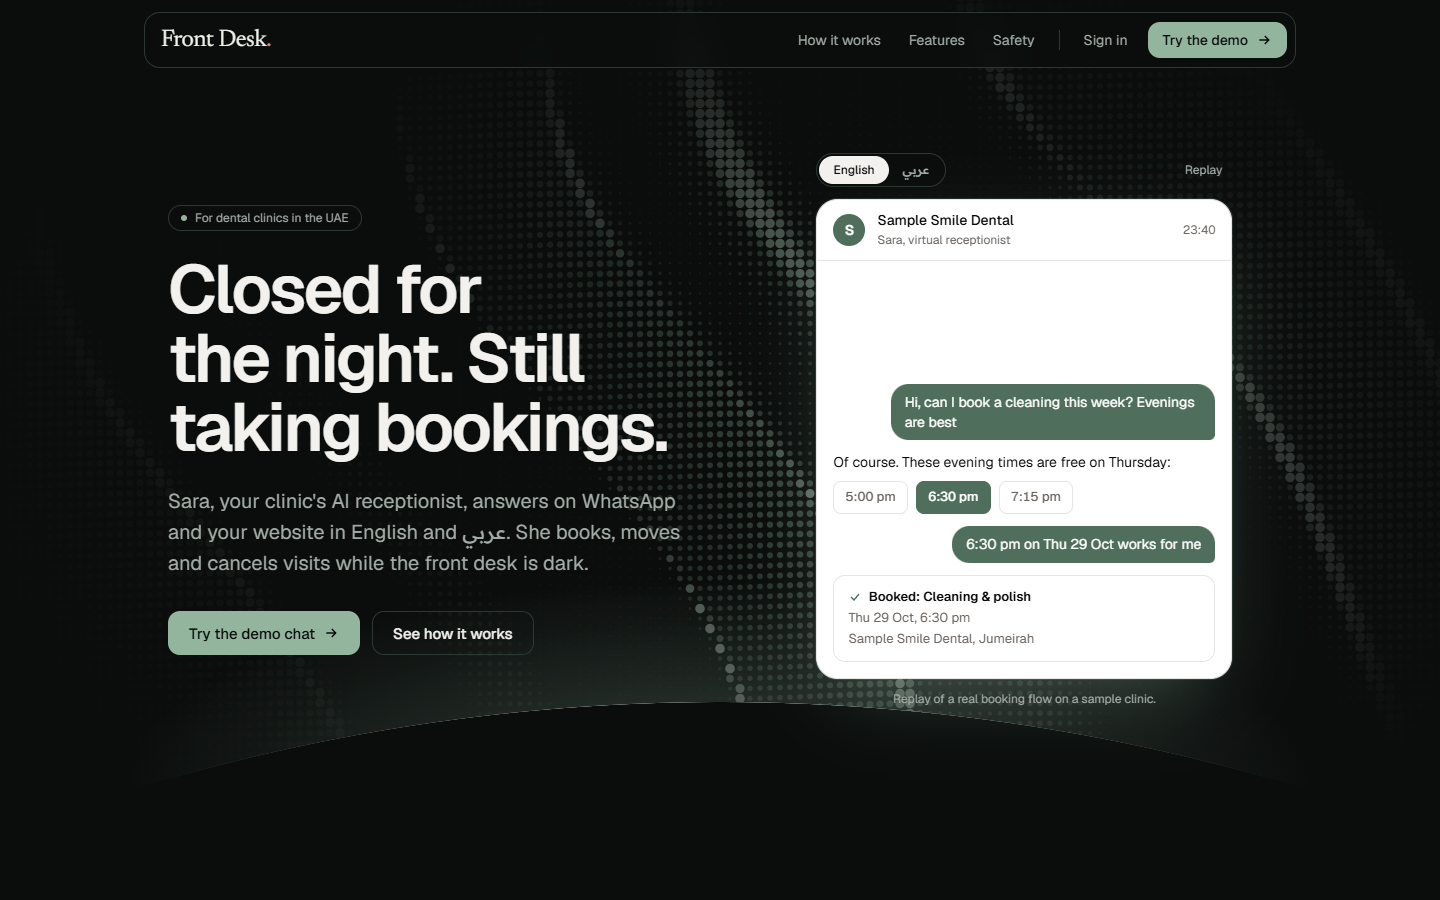
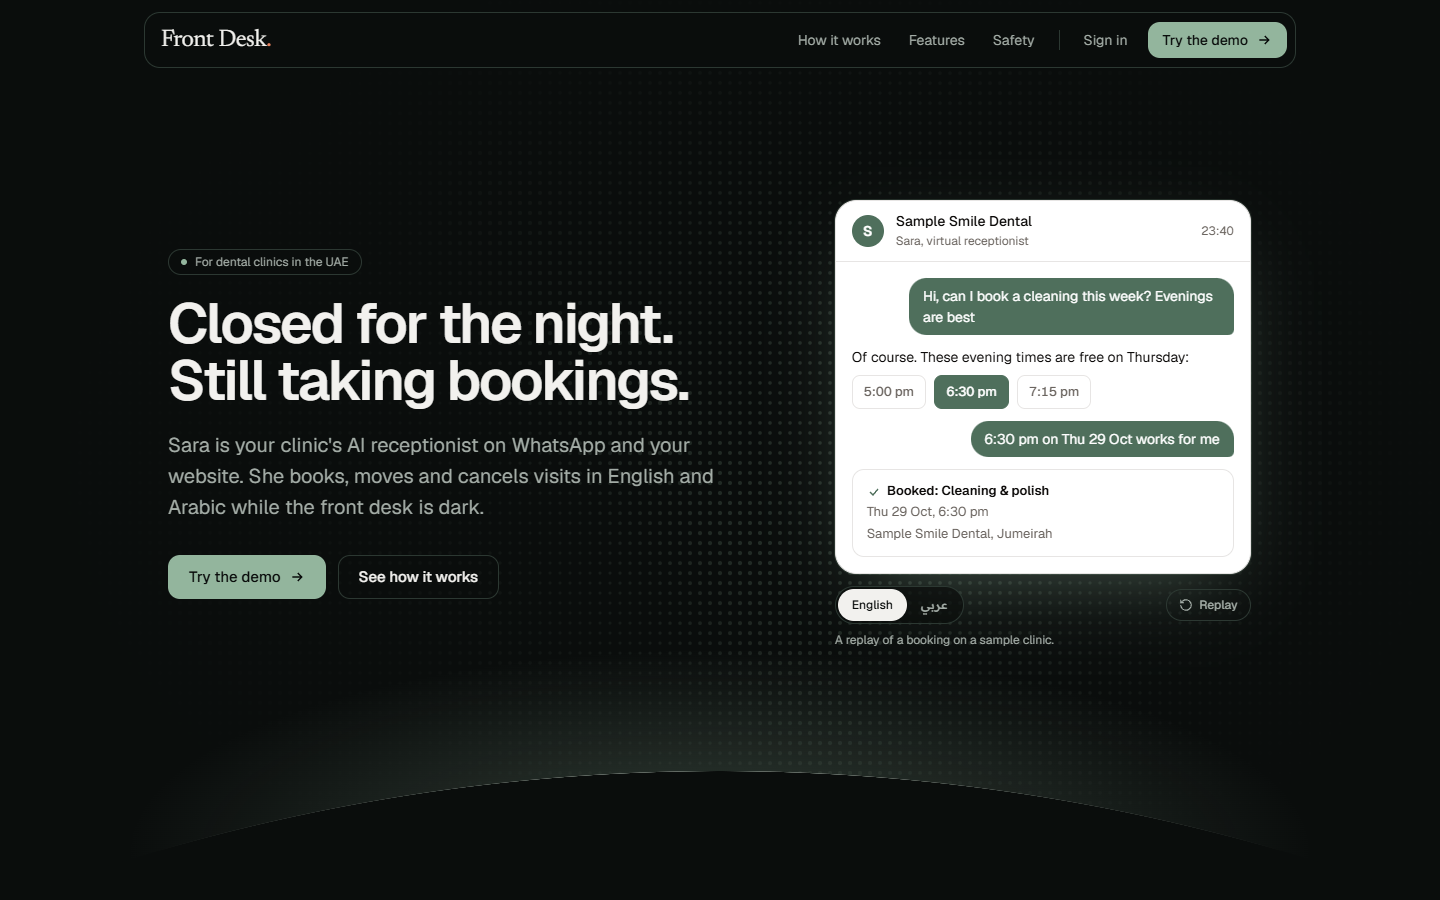
Rework the night hero layout and copy after review
Headline now sits on two lines, one sentence each. The chat card takes
the height of the finished conversation, with the language toggle and
Replay under it, so its top lines up with the copy. The horizon moves
lower, phones get more space under the nav and full-width buttons, and
the lead and button labels are tighter and consistent with the nav.

diff --git a/design-options/d-night-hero.html b/design-options/d-night-hero.html
@@ -21,7 +21,7 @@
   --radius: 0.75rem;
   --ease-out: cubic-bezier(0.23, 1, 0.32, 1);
   --font-sans: "Geist", "Readex Pro", system-ui, sans-serif;
-  --text-display: clamp(2.5rem, 1.9rem + 2.6vw, 4.25rem);
+  --text-display: clamp(2.125rem, 1.4rem + 2.6vw, 3.5rem);
   --text-h2: clamp(1.875rem, 1.5rem + 1.6vw, 2.875rem);
   --text-lead: clamp(1.0625rem, 1rem + 0.3vw, 1.25rem);
   --section: clamp(4.5rem, 3rem + 6vw, 8rem);
@@ -84,7 +84,7 @@ button { font: inherit; color: inherit; }
 @media (min-width: 640px) { .short { display: none; } .long { display: inline; } }
 
 /* Hero */
-.hero { position: relative; isolation: isolate; overflow: clip; padding-top: 5.5rem; }
+.hero { --horizon-y: 90%; position: relative; isolation: isolate; overflow: clip; padding-top: 7rem; }
 .waves { position: absolute; inset: 0; z-index: -2; }
 /* Quiet zone: the waves drop to 22% under the copy so the lead text keeps its contrast. */
 .waves { mask-image: linear-gradient(to bottom, rgb(0 0 0 / 0.22) 0 45%, #000 75%); }
@@ -98,33 +98,41 @@ button { font: inherit; color: inherit; }
 .horizon .planet { background: var(--night); }
 .horizon .rim { box-shadow: 0 -1px 0 0 var(--night-foreground), 0 -1px 6px 1px var(--night-accent), 0 -8px 40px 2px color-mix(in oklab, var(--night-accent) 70%, transparent), 0 -40px 140px 10px color-mix(in oklab, var(--night-accent) 35%, transparent);
   mask-image: linear-gradient(to right, transparent 36%, #000 47%, #000 53%, transparent 64%); }
-.hero-grid { display: grid; grid-template-columns: minmax(0, 1fr); gap: 3rem; align-items: center; padding-bottom: 6rem; }
+.hero-grid { display: grid; grid-template-columns: minmax(0, 1fr); gap: 3.5rem; align-items: center; padding-bottom: 8rem; }
 @media (min-width: 1024px) {
-  .hero { min-height: min(100svh, 60rem); display: flex; align-items: center; padding-top: 4.5rem; }
-  .hero-grid { grid-template-columns: minmax(0, 1.1fr) minmax(0, 1fr); gap: 4rem; padding-bottom: 7rem; }
+  .hero { --horizon-y: 86%; min-height: min(100svh, 56rem); display: flex; align-items: center; padding-top: 6rem; }
+  .hero-grid { grid-template-columns: minmax(0, 1.25fr) minmax(0, 1fr); gap: 4.5rem; padding-bottom: 9rem; }
 }
 .pill { display: inline-flex; align-items: center; gap: 0.5rem; border: 1px solid var(--border); border-radius: 999px; padding: 0.25rem 0.75rem; font-size: 0.75rem; color: var(--muted-foreground); background: color-mix(in oklab, var(--night) 70%, transparent); }
 .pill i { width: 0.375rem; height: 0.375rem; border-radius: 50%; background: var(--primary); }
-.hero h1 { margin-top: 1.5rem; max-width: 15ch; font-size: var(--text-display); line-height: 1.02; font-weight: 600; letter-spacing: -0.035em; text-wrap: balance; overflow-wrap: anywhere; }
-.hero .lead { margin-top: 1.5rem; max-width: 44ch; font-size: var(--text-lead); line-height: 1.55; color: var(--muted-foreground); text-wrap: pretty; }
+.hero h1 { margin-top: 1.25rem; font-size: var(--text-display); line-height: 1.02; font-weight: 600; letter-spacing: -0.035em; text-wrap: balance; overflow-wrap: anywhere; }
+.hero h1 span { display: block; }
+.hero .lead { margin-top: 1.25rem; max-width: 42ch; font-size: var(--text-lead); line-height: 1.55; color: var(--muted-foreground); text-wrap: pretty; }
 .hero .ctas { margin-top: 2rem; display: flex; flex-wrap: wrap; gap: 0.75rem; }
+/* Phones: both actions go full width so they share one edge instead of two ragged widths. */
+.hero .ctas .btn { flex: 1 1 11rem; }
+@media (min-width: 640px) { .hero .ctas .btn { flex: none; } }
 
 /* Hero conversation (static frame of the live replay) */
 .convo { width: 100%; max-width: 26rem; margin-inline: auto; position: relative; }
-.convo-top { display: flex; align-items: center; justify-content: space-between; margin-bottom: 0.75rem; }
+.convo-controls { display: flex; align-items: center; justify-content: space-between; gap: 0.75rem; margin-top: 0.75rem; }
 .seg { display: inline-flex; padding: 2px; border: 1px solid var(--border); border-radius: 999px; font-size: 0.75rem; background: color-mix(in oklab, var(--night) 70%, transparent); }
 .seg button { border: 0; background: none; padding: 0.375rem 0.875rem; border-radius: 999px; font-weight: 500; color: var(--muted-foreground); cursor: pointer; }
 .seg button[aria-pressed="true"] { background: var(--foreground); color: var(--night); }
-.replay { border: 0; background: none; font-size: 0.75rem; color: var(--muted-foreground); padding: 0.375rem 0.625rem; border-radius: 999px; cursor: pointer; }
-.replay:hover { color: var(--foreground); }
-.shell { display: flex; flex-direction: column; height: clamp(24rem, 58svh, 30rem); border-radius: 1.35rem; overflow: hidden; background: var(--card); border: 1px solid var(--border);
+.replay { display: inline-flex; align-items: center; gap: 0.375rem; border: 1px solid var(--border); background: none; font-size: 0.75rem; font-weight: 500; color: var(--muted-foreground); height: 2rem; padding-inline: 0.75rem; border-radius: 999px; cursor: pointer;
+  transition-property: color, background-color; transition-duration: 150ms; transition-timing-function: var(--ease-out); }
+.replay svg { width: 0.875rem; height: 0.875rem; }
+.replay:hover { color: var(--foreground); background: color-mix(in oklab, var(--foreground) 7%, transparent); }
+.seg button, .replay { min-height: 2rem; }
+.seg button:focus-visible, .replay:focus-visible, .btn:focus-visible, a:focus-visible { outline: 2px solid var(--primary); outline-offset: 2px; }
+.shell { display: flex; flex-direction: column; border-radius: 1.35rem; overflow: hidden; background: var(--card); border: 1px solid var(--border);
   box-shadow: 0 0 0 1px color-mix(in oklab, var(--night-accent) 18%, transparent), 0 30px 80px -30px color-mix(in oklab, var(--night-accent) 45%, transparent); }
 .shell-head { display: flex; align-items: center; gap: 0.75rem; padding: 0.75rem 1rem; border-bottom: 1px solid var(--border); }
 .avatar { width: 2rem; height: 2rem; border-radius: 50%; display: grid; place-items: center; background: var(--primary); color: var(--primary-foreground); font-size: 0.875rem; font-weight: 600; }
 .who { line-height: 1.2; } .who b { display: block; font-size: 0.875rem; font-weight: 500; } .who span { font-size: 0.75rem; color: var(--muted-foreground); }
 .clock { margin-inline-start: auto; font-size: 0.75rem; color: var(--muted-foreground); font-variant-numeric: tabular-nums; }
-.msgs { flex: 1; min-height: 0; display: flex; flex-direction: column; justify-content: flex-end; gap: 0.75rem; padding: 1rem; font-size: 0.875rem; line-height: 1.45;
-  mask-image: linear-gradient(to bottom, transparent, #000 40px); }
+/* Height follows the finished conversation, so the card has no dead space above the first message. */
+.msgs { display: flex; flex-direction: column; gap: 0.75rem; padding: 1rem; font-size: 0.875rem; line-height: 1.45; }
 .me { align-self: flex-end; max-width: 85%; background: var(--primary); color: var(--primary-foreground); padding: 0.5rem 0.875rem; border-radius: 1.1rem 1.1rem 0.35rem 1.1rem; }
 .sara { max-width: 90%; }
 .slots { display: flex; gap: 0.5rem; margin-top: 0.5rem; font-size: 0.8125rem; font-weight: 500; font-variant-numeric: tabular-nums; }
@@ -133,7 +141,7 @@ button { font: inherit; color: inherit; }
 .booked { border: 1px solid var(--border); border-radius: 0.75rem; padding: 0.75rem 0.875rem; display: grid; gap: 0.15rem; font-size: 0.8125rem; }
 .booked b { font-weight: 600; display: flex; align-items: center; gap: 0.4rem; } .booked b svg { width: 0.875rem; height: 0.875rem; color: var(--primary); }
 .booked span { color: var(--muted-foreground); }
-.convo figcaption { margin-top: 0.75rem; text-align: center; font-size: 0.75rem; color: var(--muted-foreground); }
+.convo figcaption { margin-top: 0.5rem; text-align: start; font-size: 0.75rem; color: var(--muted-foreground); }
 
 /* Night-to-morning bridge. Background walks from --night to --background with scroll (--p, 0 to 1). */
 /* --q is the morning ramp: night holds until 70% progress, then warms by 95%, in step with frames 65-84. A linear mix would sit in mud-grey mid-scroll. */
@@ -209,19 +217,15 @@ button { font: inherit; color: inherit; }
   <div class="container hero-grid">
     <div>
       <p class="pill"><i></i> For dental clinics in the UAE</p>
-      <h1 id="hero-title">Closed for the night. Still taking bookings.</h1>
-      <p class="lead">Sara, your clinic's AI receptionist, answers on WhatsApp and your website in English and <span dir="rtl" lang="ar">عربي</span>. She books, moves and cancels visits while the front desk is dark.</p>
+      <h1 id="hero-title"><span>Closed for the night.</span> <span>Still taking bookings.</span></h1>
+      <p class="lead">Sara is your clinic's AI receptionist on WhatsApp and your website. She books, moves and cancels visits in English and Arabic while the front desk is dark.</p>
       <div class="ctas">
-        <a class="btn btn-primary" href="#demo">Try the demo chat
+        <a class="btn btn-primary" href="#demo">Try the demo
           <svg viewBox="0 0 24 24" fill="none" stroke="currentColor" stroke-width="2" aria-hidden="true"><path d="M5 12h14M13 6l6 6-6 6"/></svg></a>
         <a class="btn btn-ghost" href="#how">See how it works</a>
       </div>
     </div>
     <figure class="convo">
-      <div class="convo-top">
-        <div class="seg" role="group" aria-label="Demo language"><button type="button" aria-pressed="true">English</button><button type="button" aria-pressed="false" lang="ar">عربي</button></div>
-        <button class="replay" type="button">Replay</button>
-      </div>
       <div class="shell screen">
         <div class="shell-head">
           <div class="avatar" aria-hidden="true">S</div>
@@ -237,7 +241,11 @@ button { font: inherit; color: inherit; }
           <div class="booked"><b><svg viewBox="0 0 24 24" fill="none" stroke="currentColor" stroke-width="2.5" aria-hidden="true"><path d="M5 12l5 5 9-10"/></svg>Booked: Cleaning &amp; polish</b><span>Thu 29 Oct, 6:30 pm</span><span>Sample Smile Dental, Jumeirah</span></div>
         </div>
       </div>
-      <figcaption>Replay of a real booking flow on a sample clinic.</figcaption>
+      <div class="convo-controls">
+        <div class="seg" role="group" aria-label="Demo language"><button type="button" aria-pressed="true">English</button><button type="button" aria-pressed="false" lang="ar">عربي</button></div>
+        <button class="replay" type="button"><svg viewBox="0 0 24 24" fill="none" stroke="currentColor" stroke-width="2" aria-hidden="true"><path d="M3 12a9 9 0 1 0 3-6.7L3 8"/><path d="M3 3v5h5"/></svg>Replay</button>
+      </div>
+      <figcaption>A replay of a booking on a sample clinic.</figcaption>
     </figure>
   </div>
 </section>

diff --git a/docs/superpowers/specs/2026-10-30-landing-redesign-design.md b/docs/superpowers/specs/2026-10-30-landing-redesign-design.md
@@ -41,10 +41,11 @@ Taken from them: dark surfaces work when one bright object carries the fold and 
 
 ### 1. Hero (night)
 Layout keeps today's split (copy left, live replay right) because the replay is the proof and must stay in the first viewport.
-- Desktop (≥1024 px): `min-h-[min(100svh,60rem)]`, grid `minmax(0,1.1fr) minmax(0,1fr)`, gap 4rem, content vertically centred, 7rem bottom padding so the horizon sits under the chat.
+- Desktop (≥1024 px): `min-h-[min(100svh,56rem)]`, `pt-24`, grid `minmax(0,1.25fr) minmax(0,1fr)`, gap 4.5rem, content vertically centred, 9rem bottom padding so the horizon (`--horizon-y: 86%`) runs under the chat controls, never through the caption.
+- Revised 2026-10-31 after review (better-layout / better-writing / better-interface): the H1 is two sentences, one per line (`<span class="block">`), at `text-display` = `clamp(2.125rem, 1.4rem + 2.6vw, 3.5rem)` so each sentence fits the copy column on one line; the old 15ch cap broke it into three ragged lines. The chat shell no longer has a fixed height: it is as tall as the finished conversation, so there is no dead space above the first message. The live replay reserves that height (render the final state invisibly once, or set `min-height` from it) so the card does not grow while messages arrive.
 - Layers, back to front: `--night` fill, PatternWaves canvas, glow horizon (air glow, planet body, rim), content.
 - Copy column: audience pill, H1, lead, two buttons.
-- Replay column: the existing `HeroConversation` (EN/عربي toggle, Replay, `ChatShell`, caption). The chat shell is a **lit screen**: it uses the light card tokens in both themes (`.screen` scope, see §6), plus a sage halo (`0 0 0 1px night-accent/18%`, `0 30px 80px -30px night-accent/45%`). This is the one shadow above `shadow-sm` the amendment allows, night surfaces only.
+- Replay column: the existing `HeroConversation` (`ChatShell`, then a controls row under the card with the EN/عربي toggle at the start and an outlined Replay button with an icon at the end, then a start-aligned caption). The controls moved under the card so the card top lines up with the copy column instead of a toggle row floating above it. The chat shell is a **lit screen**: it uses the light card tokens in both themes (`.screen` scope, see §6), plus a sage halo (`0 0 0 1px night-accent/18%`, `0 30px 80px -30px night-accent/45%`). This is the one shadow above `shadow-sm` the amendment allows, night surfaces only.
 - The quiet zone: the waves canvas is masked to 22% strength under the copy (`mask-image` to-right on desktop, to-bottom on phones) so the lead text keeps contrast. No scrim colour, only a mask.
 
 ### 2. Night-to-morning bridge (new)
@@ -79,11 +80,11 @@ Unchanged. It is the reference light section in the mockup.
 
 Hero
 - Pill: `For dental clinics in the UAE` (unchanged).
-- H1: **`Closed for the night. Still taking bookings.`** (44 chars, fits `text-display`, `max-w-[15ch]`).
-- Lead: `Sara, your clinic's AI receptionist, answers on WhatsApp and your website in English and عربي. She books, moves and cancels visits while the front desk is dark.`
+- H1: **`Closed for the night. Still taking bookings.`** (two lines, one sentence each).
+- Lead: `Sara is your clinic's AI receptionist on WhatsApp and your website. She books, moves and cancels visits in English and Arabic while the front desk is dark.` (Shorter subject; "Arabic" in Latin script inside the English sentence, because an inline عربي followed by a full stop reorders under the bidi algorithm. The toggle keeps the عربي label.)
   - After the rename, if the product name should appear above the fold: `{{PRODUCT}} gives your clinic Sara, an AI receptionist who answers on WhatsApp and your website in English and عربي. …` (Decision 4.)
-- Buttons: `Try the demo chat` (primary), `See how it works` (outline, night border).
-- Caption under the chat: unchanged.
+- Buttons: `Try the demo` (primary, same label as the nav button), `See how it works` (outline, night border). On phones both go full width (`flex-1 basis-44`) so they share one edge.
+- Caption under the chat: `A replay of a booking on a sample clinic.`
 
 Bridge captions (live text, `text-h2` semibold, time as a small line above)
 - Night: `2:14 am` / `A patient asks for Thursday. Sara answers.`
@@ -179,7 +180,7 @@ Removed: nothing new is added beyond the waves, horizon fade and bridge scrub.
 ## 8. Phone layout (375 px)
 
 - Nav: logo, Sign in, `Demo` button (as today). Night variant over the hero.
-- Hero: one column. Pill, H1 at the `text-display` floor (2.5 rem, wraps to 3–4 lines), lead, buttons wrap (both stay single-line), then the chat (`h-[clamp(24rem,58svh,30rem)]`). The horizon sits at 88% so it cuts under the chat, not through it. Waves quiet zone is the top 45% (to-bottom mask). `interactive` off.
+- Hero: one column, `pt-28` so the pill clears the floating nav by 2.5rem. Pill, H1 at the `text-display` floor (2.125 rem; each sentence fits one line at 375 px), lead, both buttons full width, then the chat (natural height) and its controls row. The horizon sits at 90% so it cuts under the chat, not through it. Waves quiet zone is the top 45% (to-bottom mask). `interactive` off.
 - Bridge: same 16:10 frame, full width (≈234 px tall), `sm` frames (800×500). Captions drop to `text-2xl` and sit **below** the frame, not over it (the frame is too short to hold text).
 - NightShift: existing phone behaviour (no pin, timed play).
 - Close band: centred, buttons stacked full width.
